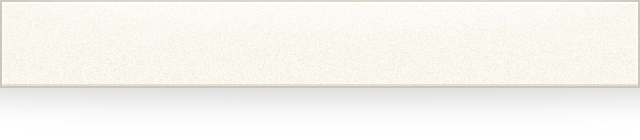
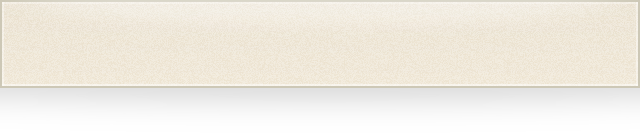
修改白色UI风格为卡其色UI风格。

diff --git a/WeTongji/Classes/SettingUIStyleViewController.m b/WeTongji/Classes/SettingUIStyleViewController.m
@@ -76,10 +76,10 @@
 
 - (void)configureCell:(SettingUIStyleTableViewCell *)cell atIndexPath:(NSIndexPath *)indexPath {
     if(indexPath.row == 0) {
-        cell.titleLable.text = @"黑巧克力";
+        cell.titleLable.text = @"黑";
         cell.styleImageView.image = [UIImage imageNamed:@"setting_black_chocolate"];
     } else {
-        cell.titleLable.text = @"白巧克力";
+        cell.titleLable.text = @"卡其";
         cell.styleImageView.image = [UIImage imageNamed:@"setting_white_chocolate"];
     }
     if(_selectRow == indexPath.row) {

diff --git a/WeTongji/Classes/WTDockButton.m b/WeTongji/Classes/WTDockButton.m
@@ -58,8 +58,8 @@
         self.titleLabel.shadowColor = [UIColor blackColor];
     } else if(style == UIStyleWhiteChocolate) {
         self.buttonCoverImageView.image = [UIImage imageNamed:@"dock_btn_cover_white.png"];
-        self.titleLabel.textColor = [UIColor blackColor];
-        self.titleLabel.shadowColor = [UIColor whiteColor];
+        self.titleLabel.textColor = [UIColor colorWithRed:0 green:0 blue:0 alpha:0.2f];
+        self.titleLabel.shadowColor = [UIColor colorWithRed:1 green:1 blue:1 alpha:0.8f];
     }
 }
 

diff --git a/WeTongji/Classes/MetroViewController.m b/WeTongji/Classes/MetroViewController.m
@@ -33,7 +33,7 @@
 #define SCROLL_VIEW_SPREAD_POS_Y    100
 #define SCROLL_HEADER_VIEW_HEIGHT   (460 - BUTTON_HEIGHT - BUTTON_VERTICAL_OFFSET - BUTTON_VERTICAL_INTERVAL)
 
-#define SCROLL_HEADER_VIEW_MAX_ALPHA 0.8f
+#define SCROLL_HEADER_VIEW_MAX_ALPHA 0.5f
 
 @interface MetroViewController ()
 
